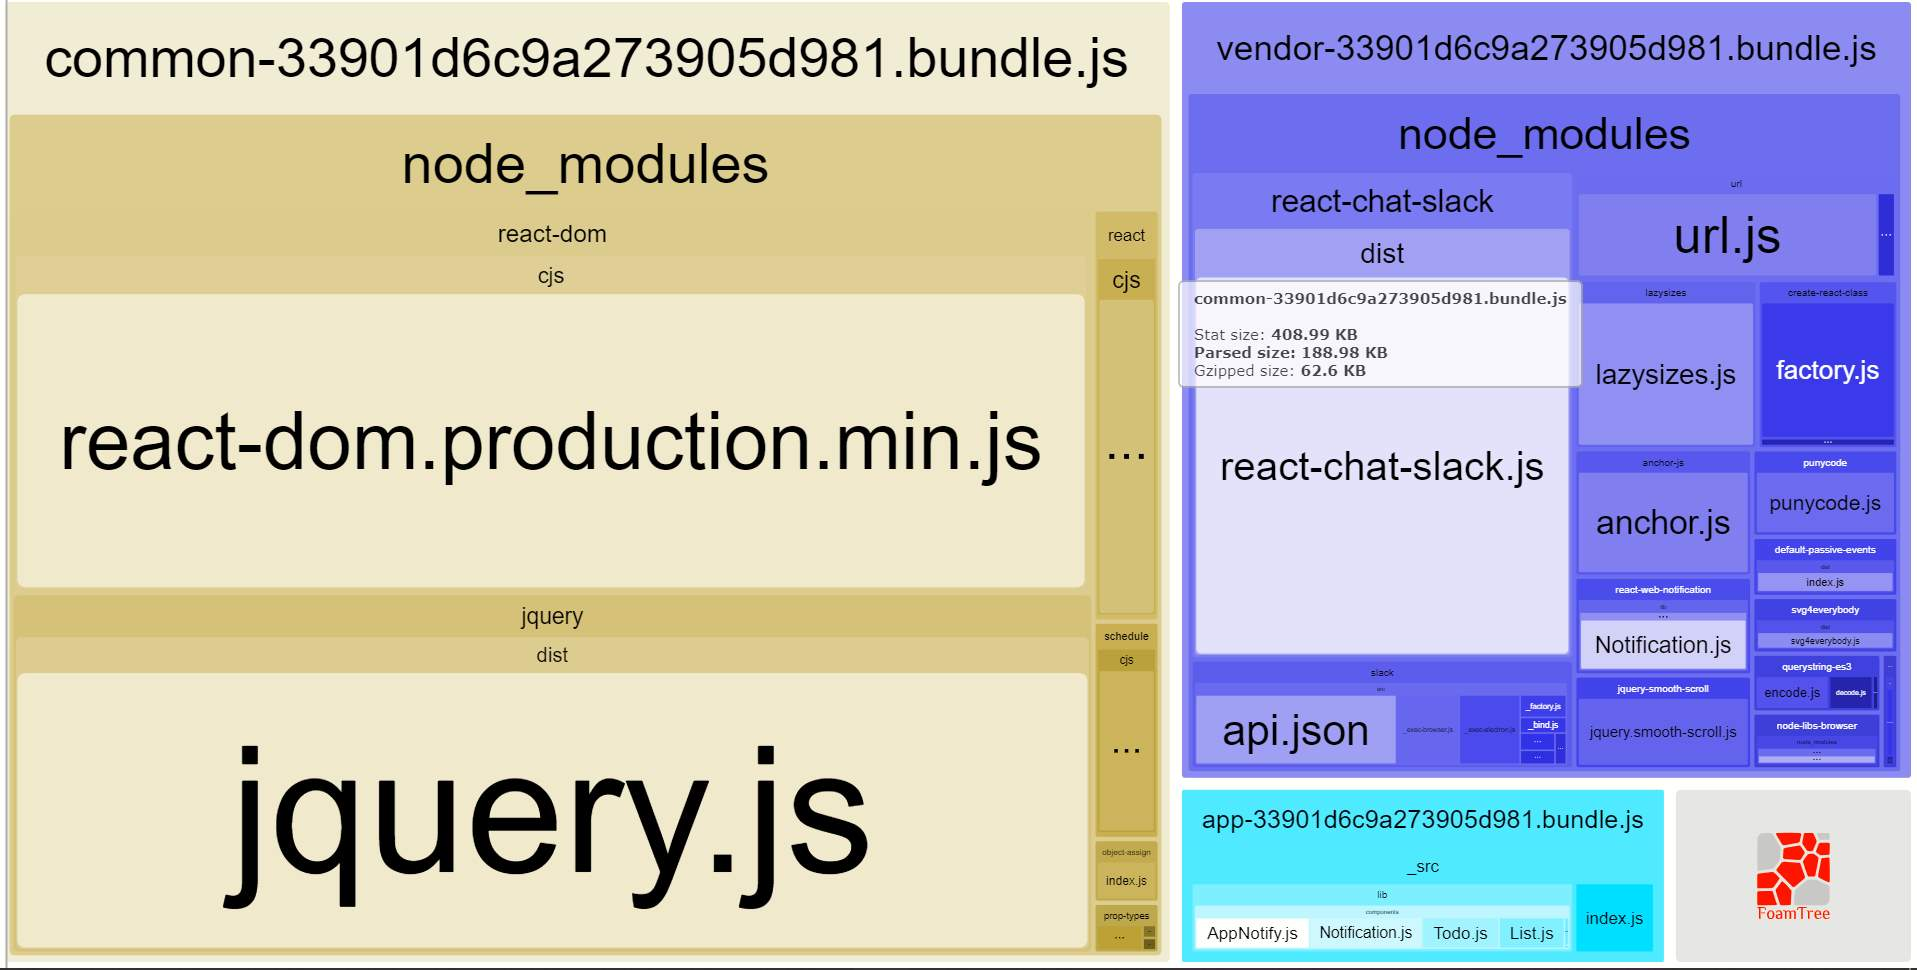
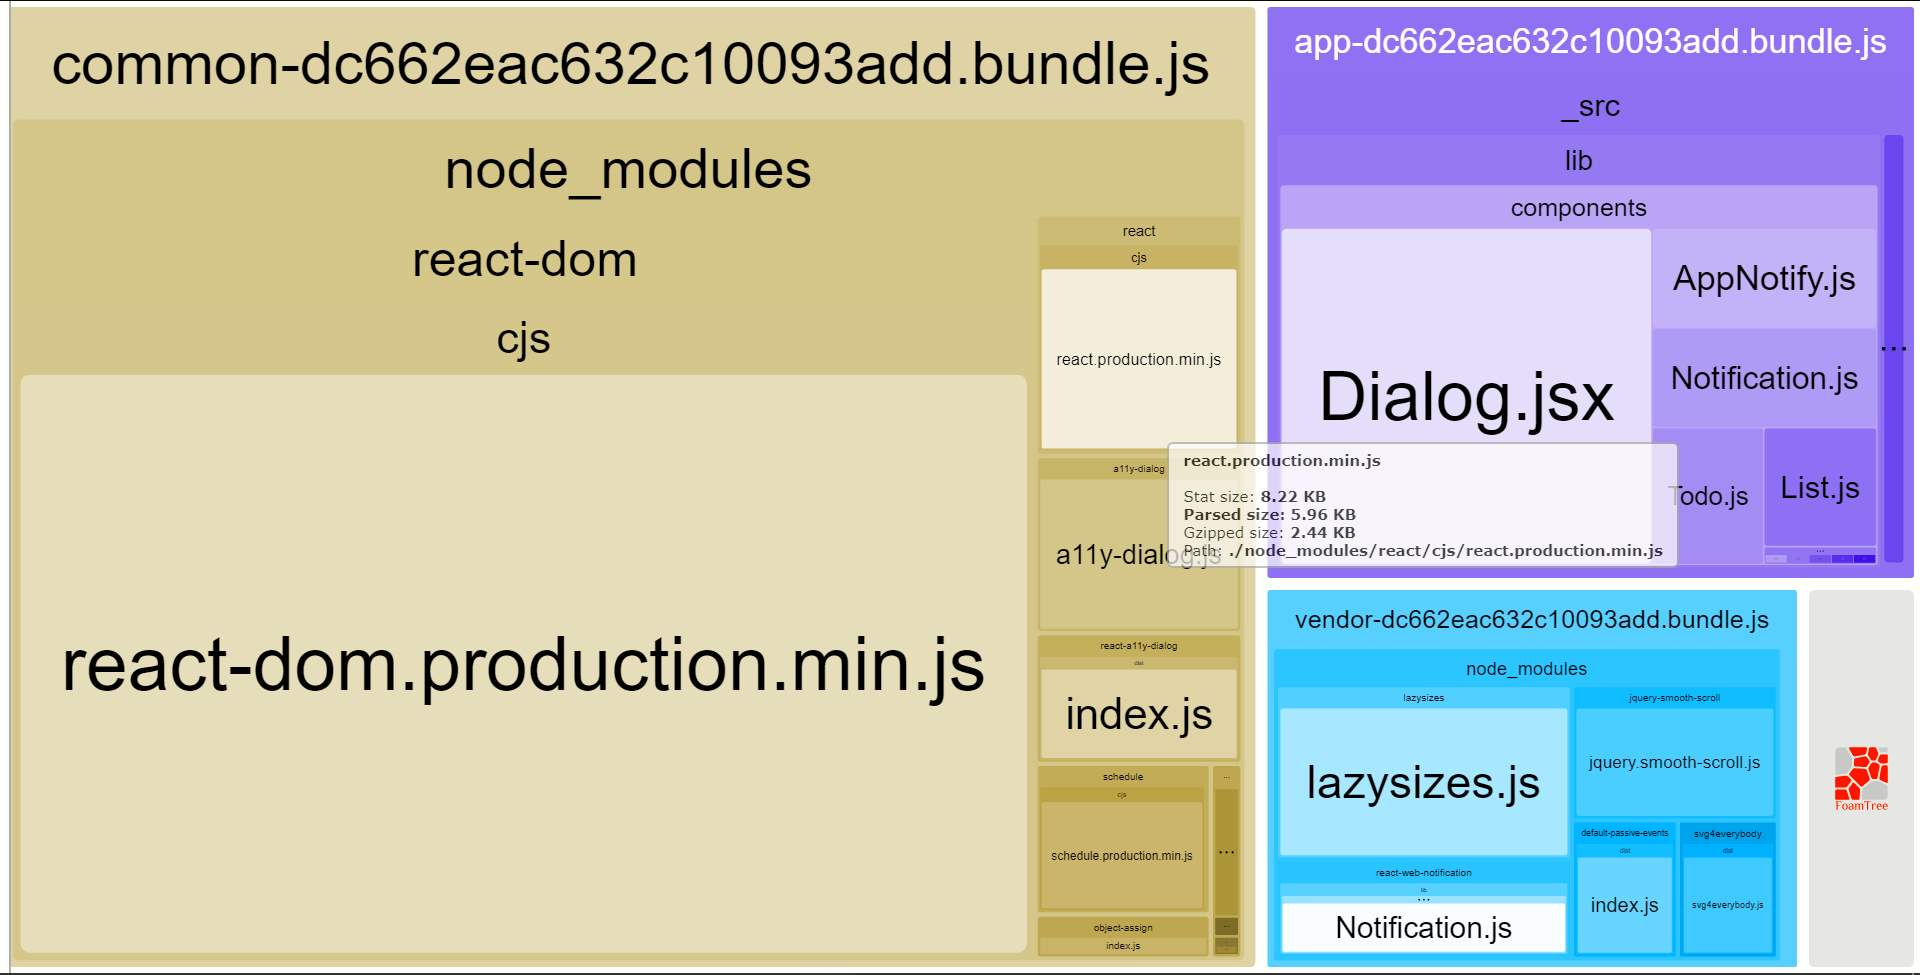
d

diff --git a/_layouts/default.html b/_layouts/default.html
@@ -31,5 +31,5 @@ layout: compress
     </footer>
   </div>  
   {% include scripts.html %}
-<script type="text/javascript" src="/assets/common-eeed09bcddd20001f016.bundle.js" async></script><script type="text/javascript" src="/assets/app-eeed09bcddd20001f016.bundle.js" async></script><script type="text/javascript" src="/assets/vendor-eeed09bcddd20001f016.bundle.js" async></script></body>
+<script type="text/javascript" src="/assets/common-dc662eac632c10093add.bundle.js" async></script><script type="text/javascript" src="/assets/app-dc662eac632c10093add.bundle.js" async></script><script type="text/javascript" src="/assets/vendor-dc662eac632c10093add.bundle.js" async></script></body>
 </html>

diff --git a/config/webpack.common.js b/config/webpack.common.js
@@ -1,4 +1,5 @@
 /* eslint-disable import/no-extraneous-dependencies */
+const BundleAnalyzerPlugin = require('webpack-bundle-analyzer').BundleAnalyzerPlugin;
 const path = require('path');
 const HtmlWebpackPlugin = require('html-webpack-plugin');
 const ScriptExtHtmlWebpackPlugin = require('script-ext-html-webpack-plugin');
@@ -39,7 +40,11 @@ module.exports = {
       to: 'images/',
     }]),
     new ImageminPlugin({ test: /\.(jpe?g|png|gif|svg)$/i }),
+    new BundleAnalyzerPlugin(),
   ],
+  externals: {
+    jquery: 'jQuery'
+  },
   devServer: {
     contentBase: './assets',
     port: 3000,
